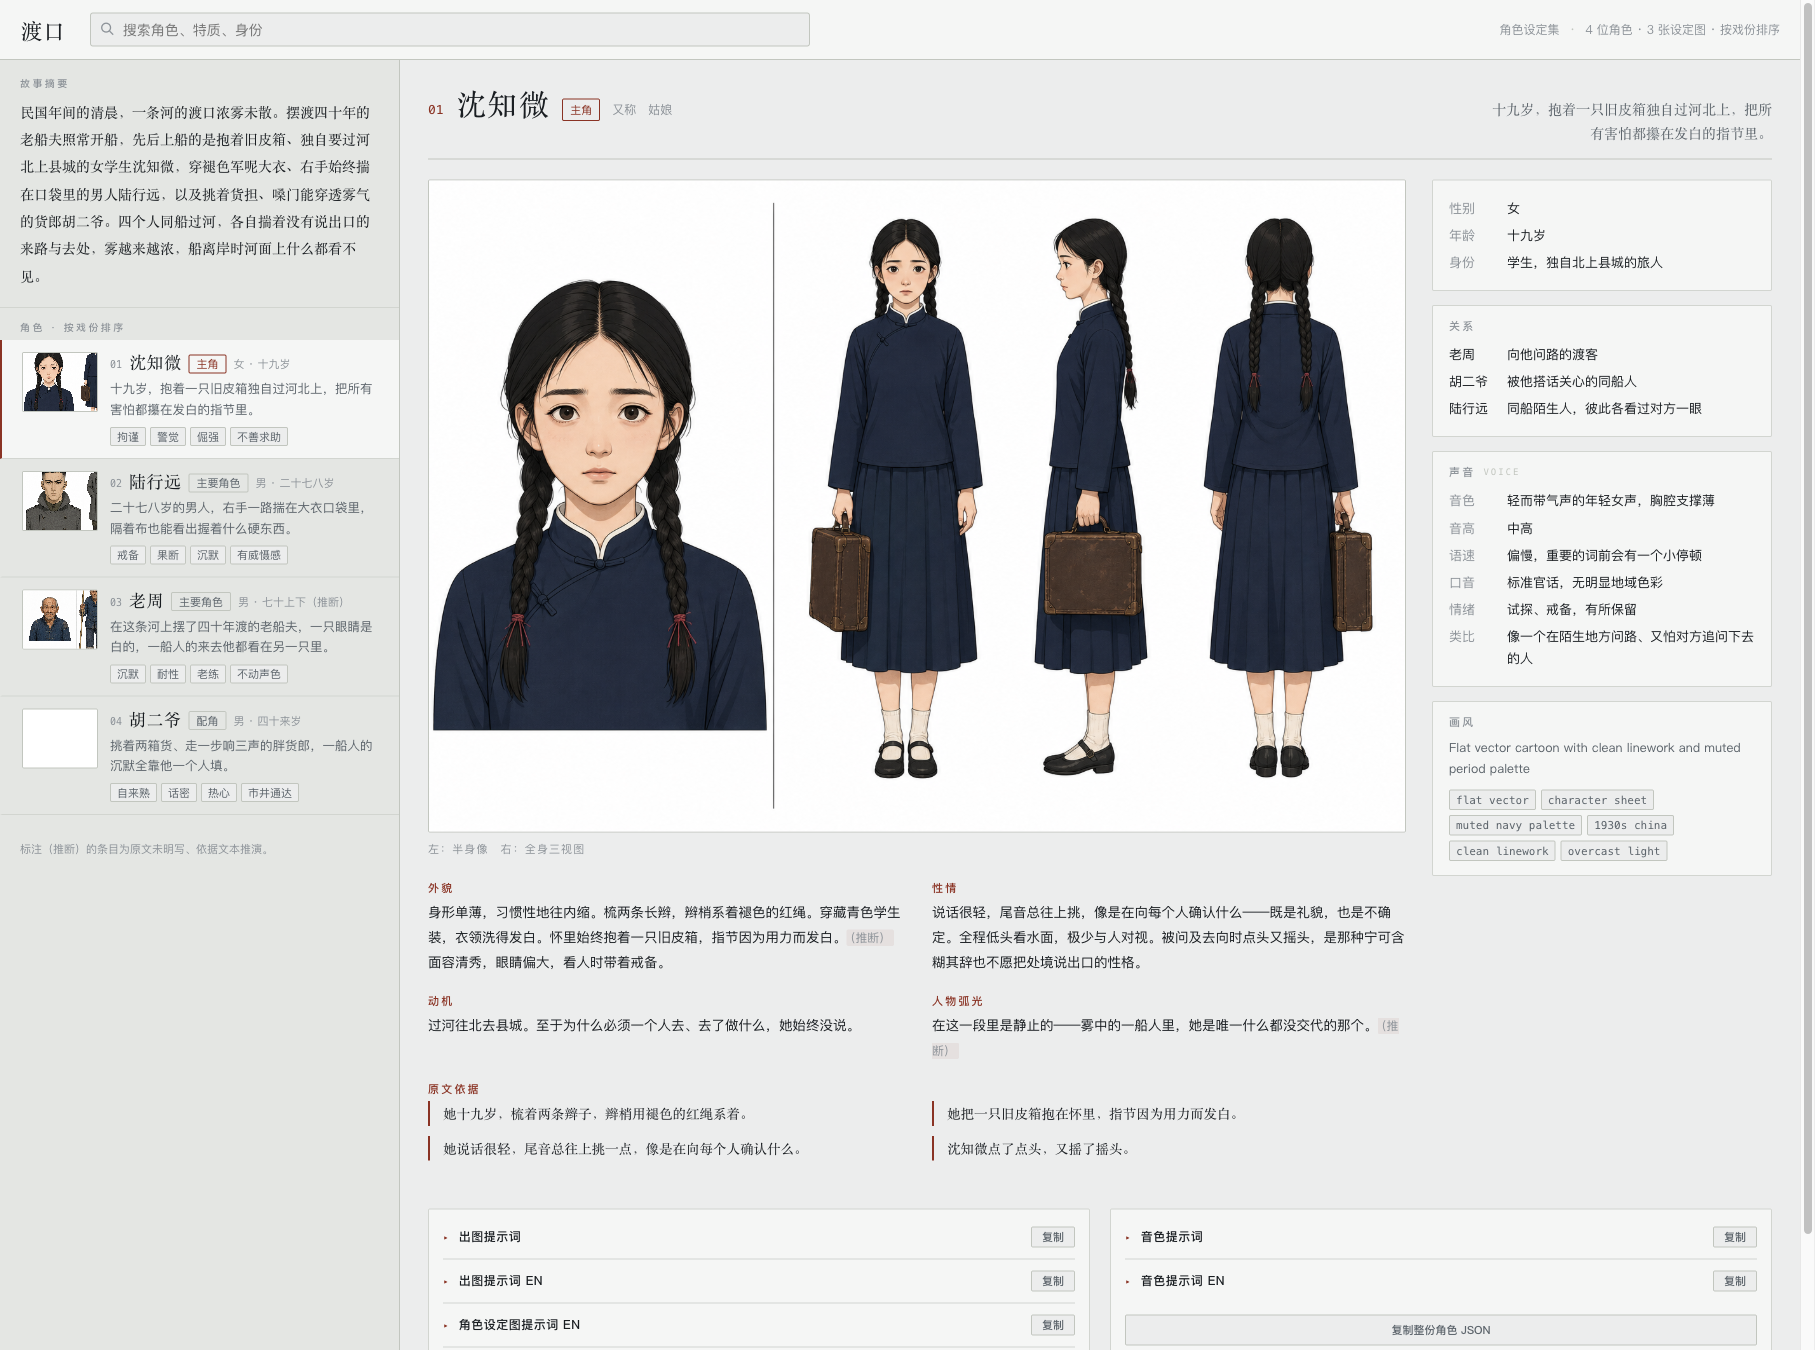
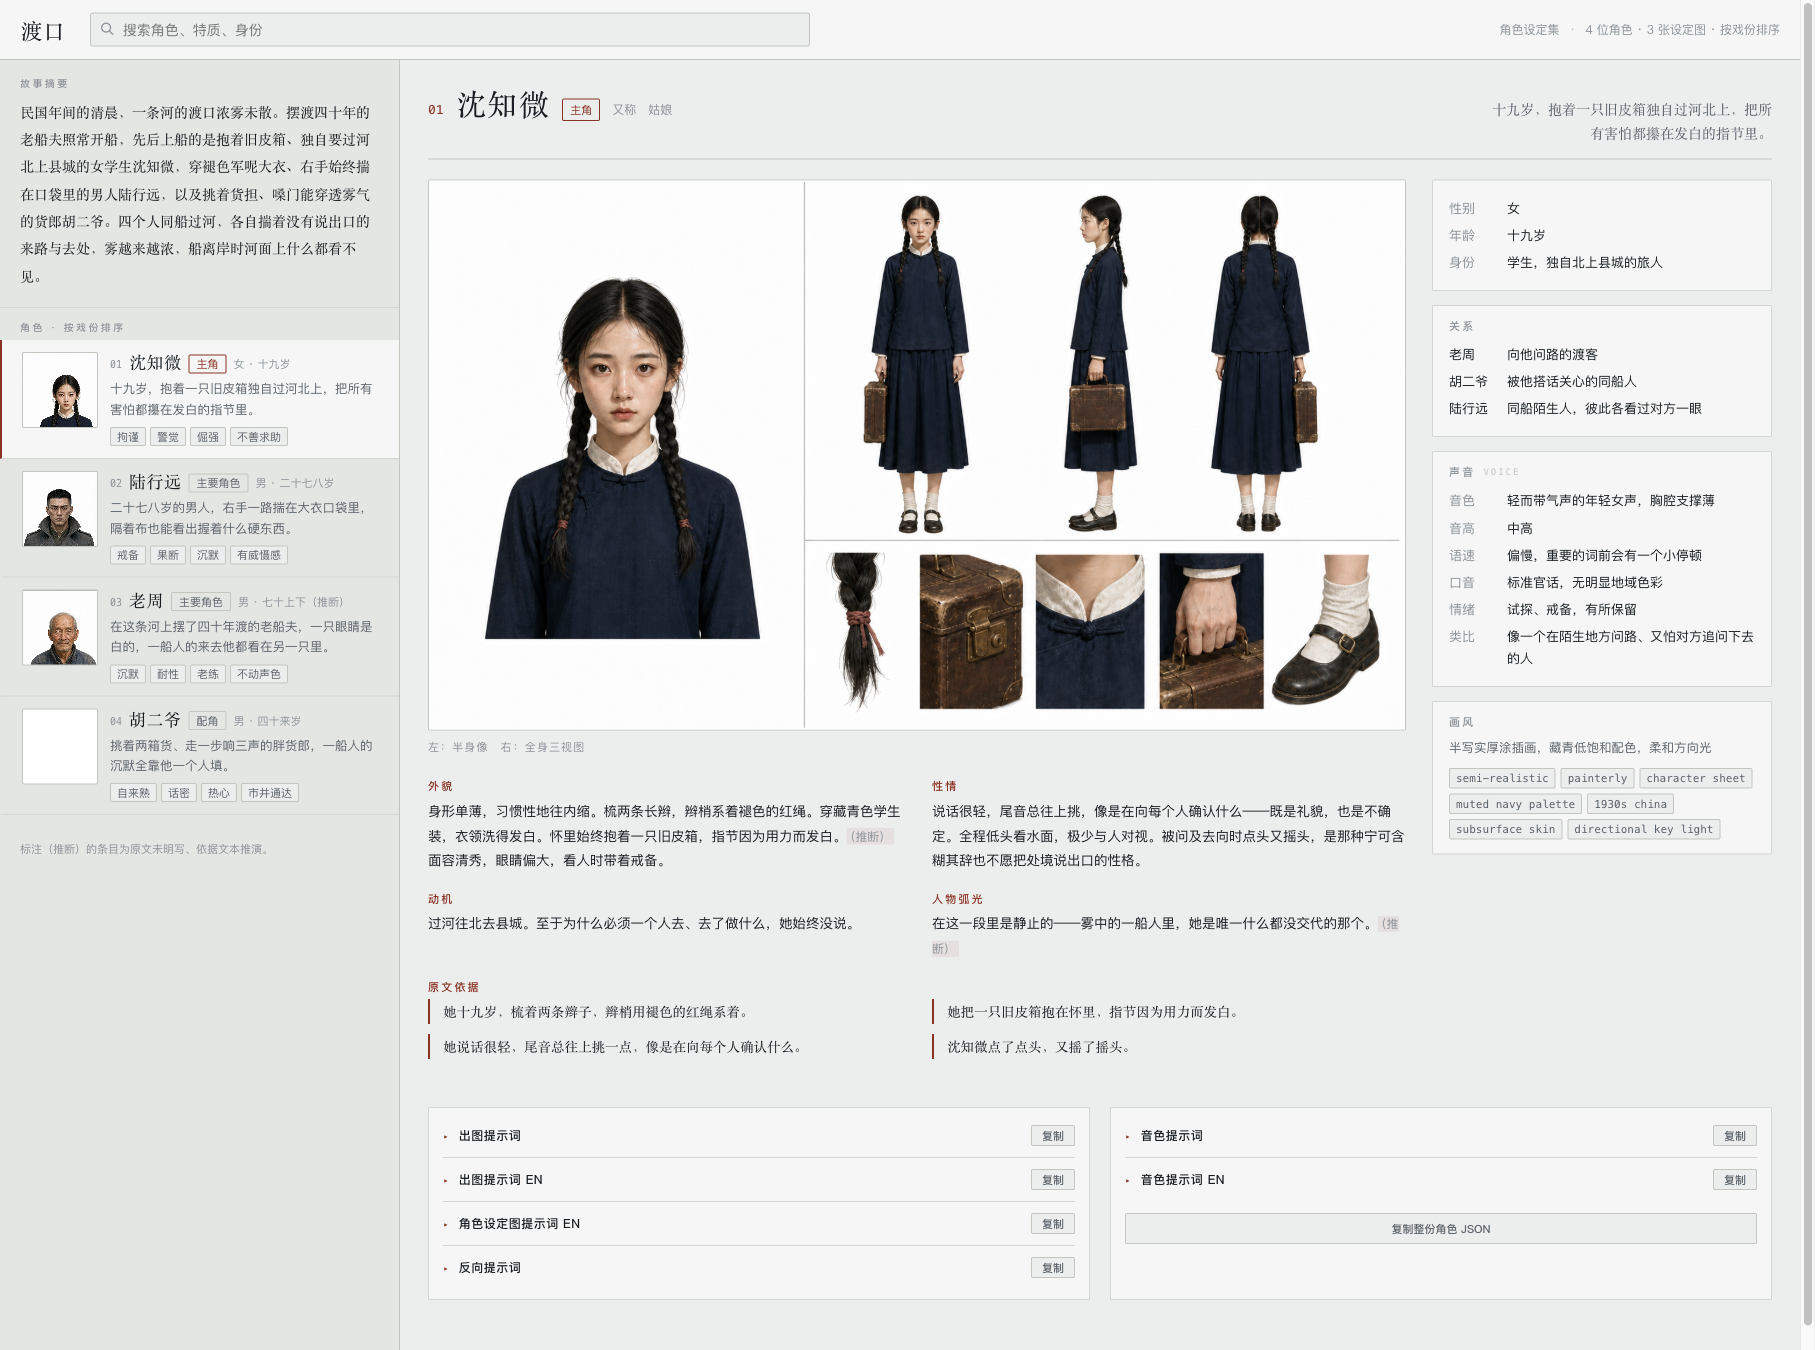
feat(novel-characters): 提示词转半写实 + 分区光照
反向提示词里原来写着 photorealistic / 3d render，正面又想要真实感，
自相矛盾。删掉，改禁真正该禁的「假」。

画风从「扁平矢量卡通」换成半写实厚涂。实测原来那句会让模型跟自己拧巴，
同一批角色有的出成动画有的出成写实。

真实感靠不完美而不是细节量：毛孔、肤色不匀、眼睛湿润高光与虹膜纤维、
眼睑眉毛左右不对称、碎发破轮廓；老年角色皱纹顺表情肌走。布料写织纹、
磨损光泽、垂坠重量、褶皱自阴影。

分区光照解决设定表和写实的矛盾：左栏半身像柔和方向主光 + 环境遮蔽，
右侧三视图和细节条保持平光正交（抠图和量比例全靠它）。

报告：主区宽度封顶 1500；左栏缩略图改精灵图切片，按 294% 放大左上对齐
裁出半身像，不用另存缩略图。

三张设定图全部用新提示词重出，画风统一了。老周那张提升最明显：老年斑、
皮肤松弛、顺表情肌的皱纹、绗缝织纹和补丁针脚。
自测 174 → 192 项。

diff --git a/skills/novel-characters/references/profile-pass.md b/skills/novel-characters/references/profile-pass.md
@@ -25,7 +25,16 @@
 
 3. **`image.prompt` / `image.promptLocal` / `image.sheet` 里绝对不许出现角色名、别名、作者名、作品名。** 图像模型对这些偏见极重，会画成它记忆里的角色而不是你的角色。描述这个人，不要叫他的名字。
 
-4. `image.prompt` 是**单张卡通角色设定图**：纯背景、全身或半身、剪影可辨、表情有戏。写明画风、线条质感、配色、光照、构图、表情。
+4. `image.prompt` 是**单张表现性插画**（不是技术图，可以放开打光）：四分之三视角半身、纯中性背景、柔和方向主光 + 冷调补光、浅景深、面部最实。
+
+   **画风走半写实厚涂，不要写「扁平矢量卡通」。** 实测「扁平矢量卡通」这句会让模型跟自己拧巴——同一批角色出来有的偏动画、有的偏写实。用这一档：
+   `Semi-realistic character illustration, painterly rendering with soft blended edges and visible brush texture, anatomically grounded`
+
+   **真实感来自不完美，不是细节量。** 皮肤和五官要写具体：可见毛孔、肤色不匀、鼻翼耳缘的细微毛细血管、耳缘透光；眼睛要有湿润高光、下眼睑水光、虹膜纤维；**眼睑和眉毛左右略不对称**；发际线有细碎碎发破开轮廓。老年角色收益最大：老年斑、皮肤松弛，**皱纹要顺着表情肌走**（法令纹、鱼尾纹、抬头纹），不是随机刻线。
+
+   **布料决定「像不像真衣服」**：可见织纹、肘部袖口膝盖的磨损与光泽、布料垂坠有重量、褶皱深处有自阴影。
+
+   `negativePrompt` **不要写 `photorealistic` / `3d render`**——一边要真实感一边禁真实感是自相矛盾的。该禁的是「假」：塑料蜡质皮肤、过度磨皮、无毛孔娃娃脸、完全对称的脸、没有高光的死眼、头盔状无碎发的头发、无织纹的平板布料、僵硬的人台姿势。
 
 5. **`image.sheet` 是角色设定图——一张 16:9 横构图，内部分三个区。** 这是给出图模型的完整版面指令，比例要写死，不能让它自由发挥：
 
@@ -46,7 +55,13 @@
    | **右上** | **全身三视图**：正视 / 侧视 / 背视并排，共用一条地平线 |
    | **右下** | **细节条**：4–5 个关键细节的小特写，等距排一行，明显小于全身像 |
 
-   三个区之间用**细线**分隔。整张纯白背景、均匀漫射光、无投影、四周留白均匀。
+   三个区之间用**细线**分隔。整张纯白背景、四周留白均匀。
+
+   **光照要分区写**，这是设定表和写实的矛盾点：
+   - **左栏半身像**：左上方柔和方向主光、衰减自然，下巴下方 / 眼窝 / 领口与脖颈交界处有环境遮蔽——脸要有体积
+   - **右侧两区**：平光正交、无方向主光、无投影——**抠图和量比例全靠它**
+
+   写死成 `LIGHTING IN THE LEFT ZONE ONLY: ...` 和 `LIGHTING IN THE RIGHT ZONES: flat even orthographic lighting ...`。全图统一平光会让整张显得「插画感」，全图统一打光又没法抠图。
 
    **比例是这个版面最容易崩的地方。** 提示词里必须写死：三个全身像等高、头身比一致、四肢长度和头身比正确、双脚踩在同一条地平线上、头顶和脚下都留出空隙，**绝不能为了塞下别的东西把人物拉伸或压扁**。
 

diff --git a/skills/novel-characters/README.en.md b/skills/novel-characters/README.en.md
@@ -6,7 +6,7 @@ Feed it a novel or a short story, and get a complete design bible for every char
 
 - **Cast list** — who appears, how central they are, with every name a character is called by folded into one person
 - **Profile** — gender, age, standing, appearance, temperament, motivation, arc, relationships, each backed by **verbatim quotes from the source**
-- **Cartoon-design prompts** — bilingual image prompt + negative prompt + style tags, ready for Midjourney / SD / GPT-Image
+- **Design prompts** — semi-realistic painterly direction, bilingual image prompt + negative prompt + style tags, ready for Midjourney / SD / GPT-Image
 - **Voice prompts** — timbre, pitch, pace, accent, emotion, plus a voice-design prompt for Qwen3-TTS / ElevenLabs Voice Design
 - **A character model sheet** — one 16:9 image in three zones: an ID-photo-style bust on the left (~34%, the reference for the face design), a full-body turnaround top-right, and a strip of key-detail close-ups bottom-right. White background for clean cut-out, generated through codex's built-in image tool (optional)
 
@@ -89,7 +89,7 @@ node scripts/novel-characters.mjs slug "胡二爷"                  # filesystem
 SKILL.md                 the workflow the agent reads
 scripts/
   novel-characters.mjs   chunk / merge / validate / render / slug
-  selftest.mjs           174 assertions, never calls a model
+  selftest.mjs           192 assertions, never calls a model
 references/
   roster-pass.md         pass 1: scanning for characters
   profile-pass.md        pass 2: building a character sheet (8 hard rules)
@@ -110,6 +110,6 @@ In `examples/渡口.txt` the peddler is only ever referred to by a nickname and 
 node scripts/selftest.mjs
 ```
 
-174 assertions across chunking, alias merging, localization, validation, and rendering. No model calls, no quota, runs in about a second. Run it before anything else after touching the scripts.
+192 assertions across chunking, alias merging, localization, validation, and rendering. No model calls, no quota, runs in about a second. Run it before anything else after touching the scripts.
 
 **Only tested on macOS with Node 24.** There is no platform-specific code, so Linux and older Node releases should be fine, but that is **unverified**.

diff --git a/CHANGELOG.md b/CHANGELOG.md
@@ -1,5 +1,28 @@
 # Changelog
 
+## novel-characters 1.3.0 — 2026-08-08
+
+**提示词转向半写实，人物更逼真**
+
+- 反向提示词里**删掉 `photorealistic` / `3d render`**——一边要真实感一边
+  禁真实感是自相矛盾的。改禁真正该禁的「假」：塑料蜡质皮肤、过度磨皮、
+  无毛孔娃娃脸、完全对称的脸、没有高光的死眼、头盔状头发、无织纹布料
+- 画风从「扁平矢量卡通」换成**半写实厚涂**。原来那句跟写实拧巴，实测
+  同一批角色有的出成动画、有的出成写实，画风飘
+- 真实感靠不完美而不是细节量：可见毛孔、肤色不匀、眼睛湿润高光与虹膜
+  纤维、**眼睑眉毛左右不对称**、碎发破开轮廓；老年角色的皱纹**顺表情肌走**
+- 布料写织纹、肘部袖口的磨损光泽、垂坠重量、褶皱自阴影
+- **分区光照**：左栏半身像给柔和方向主光 + 环境遮蔽（要体积），右侧三视图
+  和细节条保持平光正交（要抠图和量比例）。设定表和写实的矛盾在这里化解
+
+**报告**
+
+- 主区最大宽度 1500px
+- 左栏缩略图改用精灵图切片：设定图固定 16:9、左栏约 34%，按 294% 放大
+  左上对齐，裁出来正好是半身像，不用另存缩略图
+
+自测 174 → 192 项。
+
 ## novel-characters 1.2.0 — 2026-08-08
 
 **报告改成三栏工作台**

diff --git a/skills/novel-characters/references/sheet.md b/skills/novel-characters/references/sheet.md
@@ -127,6 +127,10 @@ env -u NODE_OPTIONS "$CODEX" exec --skip-git-repo-check --sandbox workspace-writ
 
 设定图一律**纯白背景**。理由有三个：抠图干净、印出来是设定表该有的样子、在深色报告里也能读。
 
+### 分区光照
+
+设定表要平光（抠图、量比例），写实要方向光（体积感）。两者矛盾，所以**分区解决**：左栏半身像给柔和方向主光 + 环境遮蔽，右侧三视图和细节条保持平光正交。提示词里是两句独立的 `LIGHTING IN THE LEFT ZONE ONLY` / `LIGHTING IN THE RIGHT ZONES`，不要合并成一句全局光照。
+
 ### 比例 ⚠
 
 这个版面最容易崩的就是比例——模型为了把细节条塞进去，会把三个全身像压扁或拉长。提示词里已经写死了 `PROPORTIONS ARE CRITICAL`、`no stretching, squashing or foreshortening`、`the detail studies give way, not the figures`。**拿到图先量一眼三个全身像是不是等高、头身比正不正常。**
